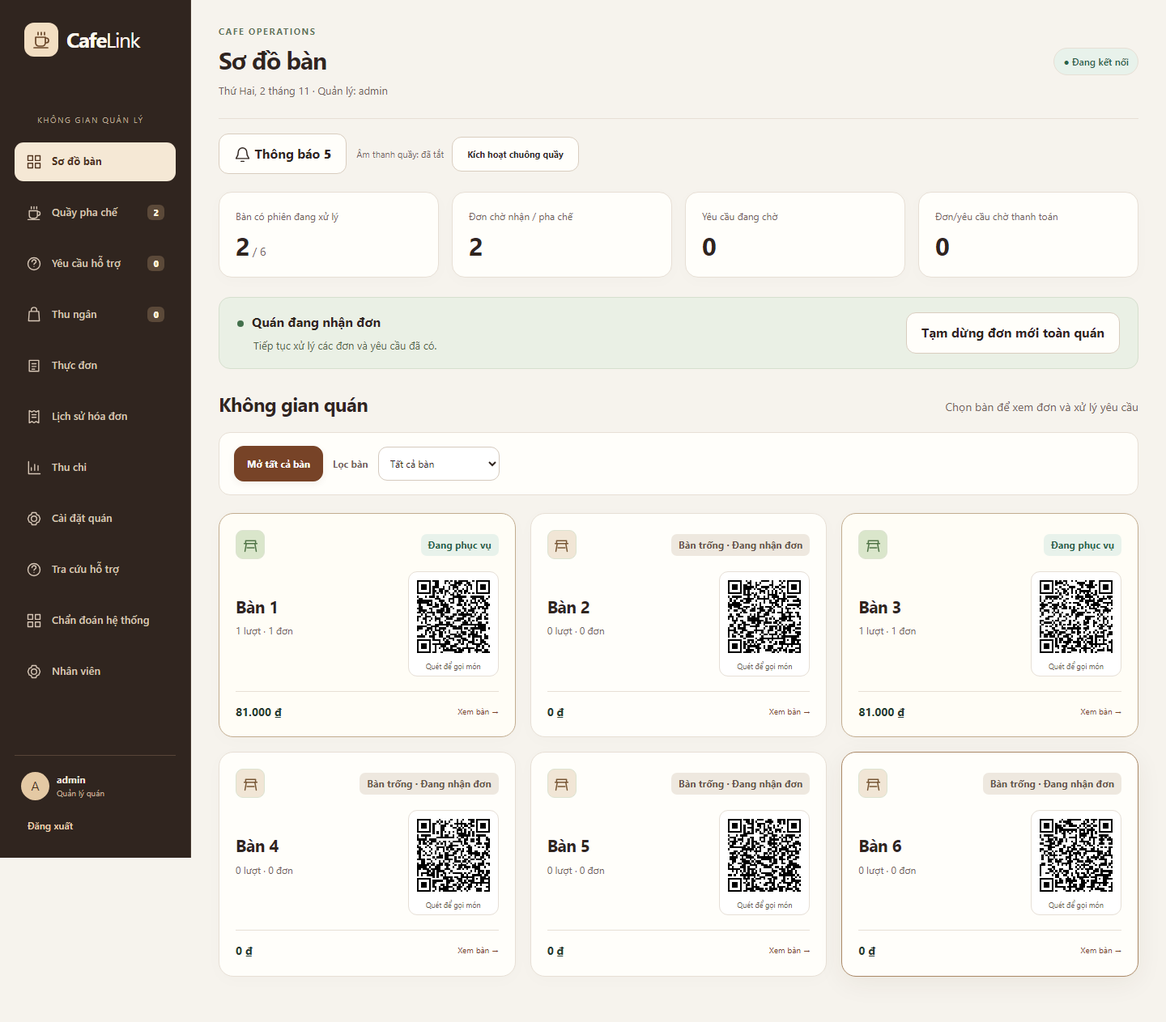
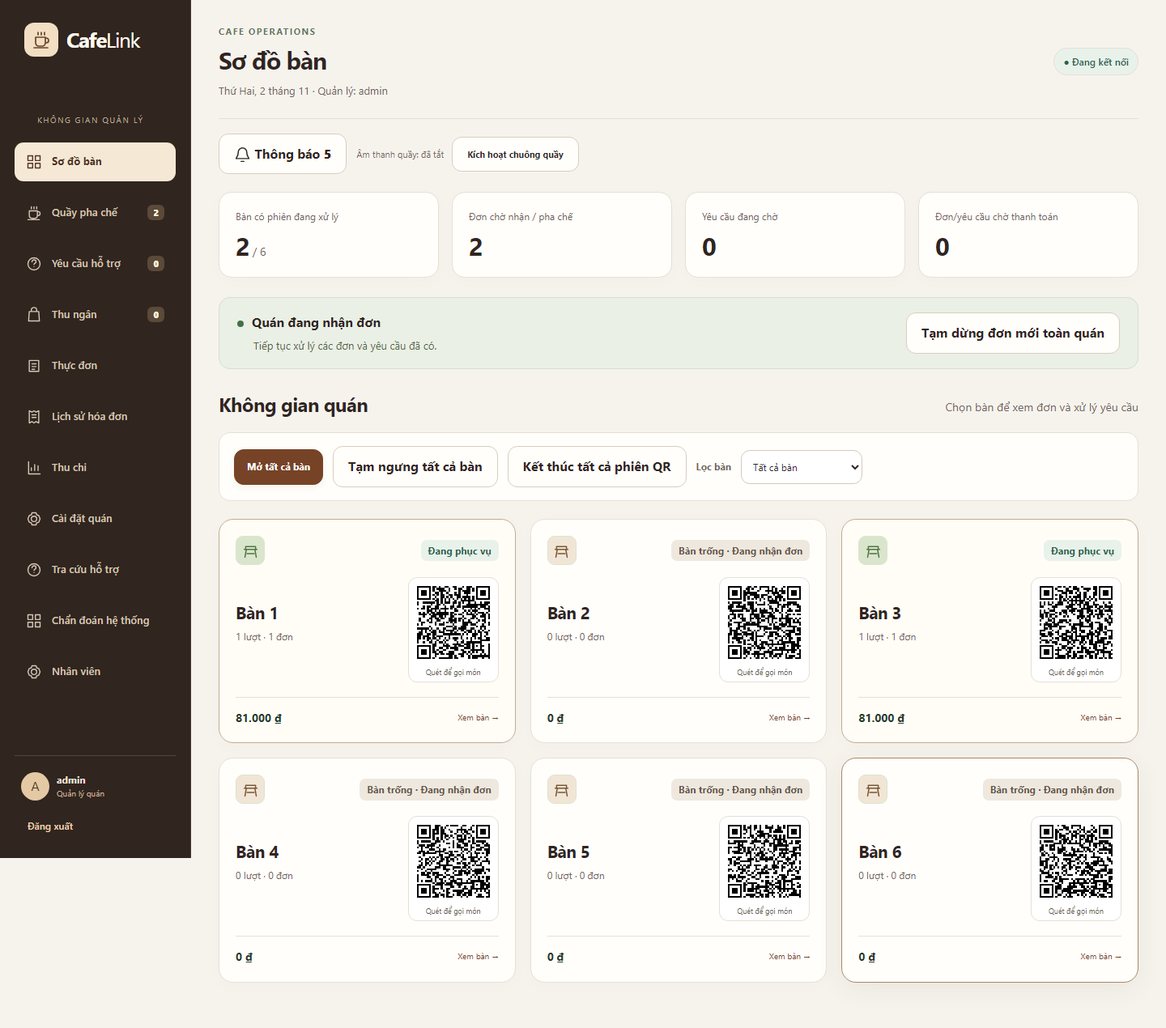
feat(tables): add safe bulk pause and session closure

diff --git a/cafelink-system/web/tests/automatic.spec.ts b/cafelink-system/web/tests/automatic.spec.ts
@@ -175,6 +175,77 @@ test("Quản lý kết thúc phiên bỏ quên và bàn trở về trống đang
   await expect(admin.locator(".table-inline-qr svg")).toHaveCount(6);
 });
 
+test("tạm ngưng tất cả bàn chặn khách mới nhưng khách hiện tại vẫn gọi món", async () => {
+  await admin.setViewportSize({ width: 390, height: 844 });
+  expect(await admin.evaluate(() => document.documentElement.scrollWidth <= innerWidth)).toBe(true);
+  await admin.getByRole("button", { name: "Tạm ngưng tất cả bàn", exact: true }).click();
+  const dialog = admin.getByRole("alertdialog", { name: "Tạm ngưng tất cả bàn" });
+  await expect(dialog.getByRole("button", { name: "Xác nhận tạm ngưng", exact: true })).toBeVisible();
+  expect(await admin.evaluate(() => document.documentElement.scrollWidth <= innerWidth)).toBe(true);
+  await dialog.getByRole("button", { name: "Xác nhận tạm ngưng", exact: true }).click();
+  await expect(dialog).not.toBeVisible();
+  await expect.poll(async () => (await state()).tables.every((table: any) => !table.acceptingOrders)).toBe(true);
+  const denied = await other.request.post("/api/guest/join", { headers: { Origin: origin }, data: { grant: qr.grant, table: true } });
+  expect(denied.status()).toBe(409);
+  expect((await denied.json()).code).toBe("TABLE_PAUSED");
+  const visitId = (await (await guest.request.get("/api/session")).json()).identity.visitId;
+  const order = await command(guest, "PLACE_ORDER", { visitId, items: [{ menuId: 2, quantity: 1, expectedVersion: 1, expectedPriceVnd: 30000 }] });
+  expect(order.orderId).toBeTruthy();
+  await command(guest, "CANCEL_UNPAID_ORDER", { visitId, orderId: order.orderId });
+});
+
+test("kết thúc tất cả phiên báo bàn còn đơn và chỉ đóng khi mọi bàn đã xử lý", async () => {
+  const secondQr = await command(owner, "GET_TABLE_QR", { tableId: 2 });
+  const joined = await other.request.post("/api/guest/join", { headers: { Origin: origin }, data: { grant: secondQr.grant, table: true } });
+  expect(joined.ok()).toBe(true);
+  const visitId = (await (await guest.request.get("/api/session")).json()).identity.visitId;
+  const order = await command(guest, "PLACE_ORDER", { visitId, items: [{ menuId: 2, quantity: 1, expectedVersion: 1, expectedPriceVnd: 30000 }] });
+  await admin.getByRole("button", { name: "Kết thúc tất cả phiên QR", exact: true }).click();
+  let dialog = admin.getByRole("alertdialog", { name: "Kết thúc tất cả phiên QR" });
+  await expect(dialog.getByRole("alert")).toContainText("Bàn 1");
+  await expect(dialog.getByRole("button", { name: "Xác nhận kết thúc tất cả phiên" })).toBeDisabled();
+  await dialog.getByRole("button", { name: "Hủy", exact: true }).click();
+  await command(guest, "CANCEL_UNPAID_ORDER", { visitId, orderId: order.orderId });
+  await admin.getByRole("button", { name: "Kết thúc tất cả phiên QR", exact: true }).click();
+  dialog = admin.getByRole("alertdialog", { name: "Kết thúc tất cả phiên QR" });
+  await expect(dialog.getByText(/Cần xử lý đơn/)).toHaveCount(0);
+  await expect(dialog).toContainText("2 phiên khách tại 2 bàn");
+  await dialog.getByRole("button", { name: "Hủy", exact: true }).click();
+  await admin.getByRole("button", { name: "Kết thúc tất cả phiên QR", exact: true }).click();
+  dialog = admin.getByRole("alertdialog", { name: "Kết thúc tất cả phiên QR" });
+  await dialog.getByRole("button", { name: "Xác nhận kết thúc tất cả phiên", exact: true }).click();
+  await expect(dialog).not.toBeVisible();
+  await expect.poll(async () => (await state()).tables.reduce((n: number, table: any) => n + table.activeSessions, 0)).toBe(0);
+  expect((await guest.request.get("/api/session")).status()).toBe(401);
+  expect((await other.request.get("/api/session")).status()).toBe(401);
+  await expect(admin.locator(".table-inline-qr svg")).toHaveCount(6);
+});
+
+test("mất phản hồi kết thúc tất cả phiên được đối chiếu, không đóng khách đến sau", async () => {
+  let intercepted = false;
+  await admin.route("**/api/command", async route => {
+    if (route.request().postDataJSON()?.action !== "END_ALL_TABLE_SESSIONS" || intercepted) return route.continue();
+    intercepted = true;
+    const response = await route.fetch();
+    expect(response.ok()).toBe(true);
+    await route.abort("failed");
+  });
+  await admin.getByRole("button", { name: "Kết thúc tất cả phiên QR", exact: true }).click();
+  const dialog = admin.getByRole("alertdialog", { name: "Kết thúc tất cả phiên QR" });
+  await dialog.getByRole("button", { name: "Xác nhận kết thúc tất cả phiên", exact: true }).click();
+  await expect.poll(() => intercepted).toBe(true);
+  const next = await join(other);
+  await admin.unrouteAll();
+  await admin.reload();
+  await expect.poll(async () => admin.evaluate(async () => {
+    const db = await new Promise<IDBDatabase>((resolve, reject) => { const r = indexedDB.open("cafelink-staff-journal", 1); r.onsuccess = () => resolve(r.result); r.onerror = () => reject(r.error); });
+    try { return await new Promise<string | undefined>((resolve, reject) => { const r = db.transaction("commands").objectStore("commands").getAll(); r.onsuccess = () => resolve(r.result.filter((entry: any) => entry.action === "END_ALL_TABLE_SESSIONS").at(-1)?.status); r.onerror = () => reject(r.error); }); }
+    finally { db.close(); }
+  })).toBe("ACCEPTED");
+  expect((await (await other.request.get("/api/session")).json()).identity.visitId).toBe(next.identity.visitId);
+  expect((await state()).tables[0].activeSessions).toBe(1);
+});
+
 test("QR cố định, mở toàn quán và hai khách cùng bàn có đơn riêng", async () => {
   const before = await (await guest.request.get("/api/session")).json(),
     second = await join(other);

diff --git a/cafelink-system/web/src/App.tsx b/cafelink-system/web/src/App.tsx
@@ -54,6 +54,8 @@ export function App() {
   const [selected, setSelected] = useState<Table | null>(null);
   const [bill, setBill] = useState<Bill | null>(null);
   const [confirmPay, setConfirmPay] = useState(false);
+  const [confirmAll, setConfirmAll] = useState<"pause" | "end" | null>(null);
+  const [confirmRevision, setConfirmRevision] = useState<number | null>(null);
   const [query, setQuery] = useState("");
   const [requestQuery, setRequestQuery] = useState(""),
     [showHandled, setShowHandled] = useState(false),
@@ -406,6 +408,12 @@ export function App() {
     tickets = state?.tickets ?? [],
     tables = state?.tables ?? [];
   const openTickets = tickets.filter((ticket) => ticket.status === "OPEN");
+  const qrTablesWithSessions = tables.filter(table => table.automatic && (table.activeSessions ?? 0) > 0);
+  const activeQrSessions = qrTablesWithSessions.reduce((count, table) => count + (table.activeSessions ?? 0), 0);
+  const blockedQrTables = qrTablesWithSessions.filter(table =>
+    orders.some(order => order.tableId === table.id && !["CANCELLED", "REFUNDED"].includes(order.paymentState ?? "") && (order.paymentState !== "PAID" || order.status !== "SERVED")) ||
+    openTickets.some(ticket => ticket.tableId === table.id),
+  );
   const currentTable = tables.find((table) => table.id === selected?.id);
   const tableOrders = orders.filter((order) => order.tableId === selected?.id);
   const tableTickets = openTickets.filter(
@@ -653,6 +661,8 @@ export function App() {
               >
                 Mở tất cả bàn
               </button>}
+              {isManager && <button className="secondary" disabled={disabled || !tables.some(table => table.automatic && table.acceptingOrders)} onClick={() => { setError(""); setConfirmRevision(state?.revision ?? null); setConfirmAll("pause"); }}>Tạm ngưng tất cả bàn</button>}
+              {isManager && <button className="secondary" disabled={disabled || activeQrSessions === 0} onClick={() => { setError(""); setConfirmRevision(state?.revision ?? null); setConfirmAll("end"); }}>Kết thúc tất cả phiên QR</button>}
               <label htmlFor="table-filter">Lọc bàn</label>
               <select
                 id="table-filter"
@@ -666,6 +676,26 @@ export function App() {
                 <option value="checkout">Đang tính tiền</option>
               </select>
             </div>
+            {isManager && confirmAll && <Dialog label={confirmAll === "pause" ? "Tạm ngưng tất cả bàn" : "Kết thúc tất cả phiên QR"} role="alertdialog" onClose={() => { if (!busy) setConfirmAll(null); }}>
+              {confirmAll === "pause" ? <>
+                <h2>Tạm ngưng nhận khách mới?</h2>
+                <p>Khách mới sẽ không thể vào bằng QR ở tất cả bàn. Các phiên và yêu cầu hiện có vẫn được giữ để tiếp tục phục vụ.</p>
+              </> : <>
+                <h2>Kết thúc tất cả phiên QR?</h2>
+                <p>Thao tác sẽ đăng xuất {activeQrSessions} phiên khách tại {qrTablesWithSessions.length} bàn. QR nhận khách giữ nguyên trạng thái.</p>
+                {blockedQrTables.length > 0 ? <p className="warning banner" role="alert">Cần xử lý đơn chưa thanh toán/chưa giao hoặc yêu cầu hỗ trợ tại: {blockedQrTables.map(table => table.name).join(", ")}.</p> : <p>Chỉ tiếp tục khi khách đã rời quán. Các đơn và yêu cầu sẽ được kiểm tra lại trước khi kết thúc.</p>}
+              </>}
+              {(confirmRevision === null || confirmRevision !== state?.revision) && <p className="warning banner" role="alert">Trạng thái quán đã thay đổi. Hãy hủy và mở lại để kiểm tra trước khi xác nhận.</p>}
+              {error && <p className="error" role="alert">{error}</p>}
+              <div className="button-row">
+                <button type="button" className="secondary" disabled={busy} onClick={() => setConfirmAll(null)}>Hủy</button>
+                <button type="button" disabled={disabled || confirmRevision === null || confirmRevision !== state?.revision || (confirmAll === "end" && (blockedQrTables.length > 0 || activeQrSessions === 0))} onClick={async () => {
+                  const action = confirmAll === "pause" ? "PAUSE_ALL_TABLES" : "END_ALL_TABLE_SESSIONS";
+                  const result = await run<{pausedTables?: number; endedSessions?: number}>(action, { expectedRevision: confirmRevision });
+                  if (result) { setConfirmAll(null); setNotice(action === "PAUSE_ALL_TABLES" ? `Đã tạm ngưng nhận khách mới ở ${result.pausedTables} bàn.` : `Đã kết thúc ${result.endedSessions} phiên QR.`); }
+                }}>{confirmAll === "pause" ? "Xác nhận tạm ngưng" : "Xác nhận kết thúc tất cả phiên"}</button>
+              </div>
+            </Dialog>}
             <section className="table-grid">
               {tables
                 .filter(

diff --git a/cafelink-system/web/src/staffJournal.ts b/cafelink-system/web/src/staffJournal.ts
@@ -3,6 +3,7 @@ import type { SessionInfo } from "./models";
 import { fingerprint, JournalError } from "./journal";
 
 export const financialActions = new Set([
+  "PAUSE_ALL_TABLES", "END_ALL_TABLE_SESSIONS",
   "SET_MENU_AVAILABILITY", "ACCEPT_ORDER", "SAVE_TAX_SETTINGS", "CREATE_EXPENSE", "VOID_EXPENSE",
   "REQUEST_CHECKOUT",
   "ACK_CHECKOUT",
@@ -124,9 +125,11 @@ const definite = new Set([
   "FORBIDDEN",
   "NOT_FOUND",
   "COMMAND_DISCARDED",
-  "ITEM_UNAVAILABLE", "TAX_CHANGED",
+  "ITEM_UNAVAILABLE", "TAX_CHANGED", "TABLE_HAS_WORK",
 ]);
 function validResult(row: StaffIntent, result: Record<string, unknown>) {
+  if(row.action==='PAUSE_ALL_TABLES')return Number.isSafeInteger(result.pausedTables) && Number(result.pausedTables)>=0;
+  if(row.action==='END_ALL_TABLE_SESSIONS')return Number.isSafeInteger(result.endedSessions) && Number(result.endedSessions)>=0 && Number.isSafeInteger(result.affectedTables) && Number(result.affectedTables)>=0;
   if(row.action==='SET_MENU_AVAILABILITY')return result.menuId===row.data.menuId&&result.version===Number(row.data.expectedVersion)+1;
   if(row.action==='ACCEPT_ORDER')return result.orderId===row.data.orderId&&result.acceptanceState==='ACCEPTED';
   if(row.action==='SAVE_TAX_SETTINGS')return result.version===Number(row.data.expectedVersion)+1&&result.rateBps===row.data.rateBps&&result.mode===row.data.mode;

diff --git a/cafelink-system/web/src/ui.tsx b/cafelink-system/web/src/ui.tsx
@@ -7,6 +7,8 @@ export const searchText = (text: string) =>
     .replace(/Đ/g, "D")
     .toLocaleLowerCase("vi");
 export const actionTitle: Record<string, string> = {
+  PAUSE_ALL_TABLES: "Tạm ngưng tất cả bàn",
+  END_ALL_TABLE_SESSIONS: "Kết thúc tất cả phiên QR",
   SET_MENU_AVAILABILITY: "Đổi tình trạng món",
   ACCEPT_ORDER: "Tiếp nhận đơn", SAVE_TAX_SETTINGS: "Lưu cấu hình thuế", CREATE_EXPENSE: "Ghi khoản chi", VOID_EXPENSE: "Hủy phiếu chi",
   RESOLVE_ORDER: "Hủy / hoàn giả lập đơn",

diff --git a/cafelink-system/web/src/StaffRecovery.tsx b/cafelink-system/web/src/StaffRecovery.tsx
@@ -81,7 +81,7 @@ export function StaffRecovery({ session }: { session: SessionInfo }) {
                   Mã {row.id.slice(0, 8)} · {row.action} ·{" "}
                   {row.data.visitId
                     ? `lượt ${String(row.data.visitId).slice(0, 8)}`
-                    : "thực đơn"}
+                    : ["PAUSE_ALL_TABLES", "END_ALL_TABLE_SESSIONS"].includes(row.action) ? "toàn quán" : "thực đơn"}
                 </small>
               </details>
               {row.status === "CONFIRM_REQUIRED" && (

diff --git a/cafelink-system/src/test/java/com/cafelink/server/AutomaticTablesTest.java b/cafelink-system/src/test/java/com/cafelink/server/AutomaticTablesTest.java
@@ -93,6 +93,46 @@ class AutomaticTablesTest {
             assertEquals(next.membershipId(),service.resume(next.credential()).membershipId());
         }
     }
+    @Test void pauseAllPreservesCurrentGuestsAndSameCommandCannotPauseReopenedTables() throws Exception {
+        try(var service=new CafeService(temp.resolve("pause-all.db"),new QrConfig(new byte[32],Clock.systemUTC()),true)) {
+            var admin=service.authenticate("admin","CafeLink@123");service.execute(admin,"OPEN_ALL_TABLES",j("{}"));
+            var grant=service.execute(admin,"GET_TABLE_QR",j("{\"tableId\":1}")).get("grant").getAsString();
+            var guest=service.joinTable(grant);var revision=service.snapshot(admin,Map.of()).revision();
+            var input=j("{\"expectedRevision\":"+revision+"}");
+            var paused=service.execute(admin,"pause-all-once","PAUSE_ALL_TABLES",input);
+            assertEquals(6,paused.get("pausedTables").getAsInt());
+            assertEquals("TABLE_PAUSED",assertThrows(BusinessException.class,()->service.joinTable(grant)).code());
+            assertNotNull(service.execute(guest,"PLACE_ORDER",j("{\"visitId\":\""+guest.visitId()+"\",\"items\":[{\"menuId\":2,\"quantity\":1,\"expectedVersion\":1,\"expectedPriceVnd\":30000}]}")));
+            service.execute(admin,"OPEN_ALL_TABLES",j("{}"));
+            assertEquals(paused,service.execute(admin,"pause-all-once","PAUSE_ALL_TABLES",input));
+            assertTrue(service.snapshot(admin,Map.of()).tables().get(0).acceptingOrders());
+            assertEquals("VERSION_CONFLICT",assertThrows(BusinessException.class,()->service.execute(admin,"pause-all-late","PAUSE_ALL_TABLES",input)).code());
+        }
+    }
+    @Test void endAllIsAtomicReportsBlockedTablesAndFencesOldCommands() throws Exception {
+        try(var service=new CafeService(temp.resolve("end-all.db"),new QrConfig(new byte[32],Clock.systemUTC()),true)) {
+            var admin=service.authenticate("admin","CafeLink@123");service.execute(admin,"OPEN_ALL_TABLES",j("{}"));
+            var grant1=service.execute(admin,"GET_TABLE_QR",j("{\"tableId\":1}")).get("grant").getAsString();
+            var grant2=service.execute(admin,"GET_TABLE_QR",j("{\"tableId\":2}")).get("grant").getAsString();
+            var first=service.joinTable(grant1);var second=service.joinTable(grant2);
+            var order=service.execute(second,"PLACE_ORDER",j("{\"visitId\":\""+second.visitId()+"\",\"items\":[{\"menuId\":2,\"quantity\":1,\"expectedVersion\":1,\"expectedPriceVnd\":30000}]}"));
+            var blockedInput=j("{\"expectedRevision\":"+service.snapshot(admin,Map.of()).revision()+"}");
+            var blocked=assertThrows(BusinessException.class,()->service.execute(admin,"END_ALL_TABLE_SESSIONS",blockedInput));
+            assertEquals("TABLE_HAS_WORK",blocked.code());assertTrue(blocked.getMessage().contains("Bàn 2"));
+            assertEquals(first.membershipId(),service.resume(first.credential()).membershipId());
+            assertEquals(second.membershipId(),service.resume(second.credential()).membershipId());
+            service.execute(second,"CANCEL_UNPAID_ORDER",j("{\"visitId\":\""+second.visitId()+"\",\"orderId\":"+order.get("orderId")+"}"));
+            var confirmed=j("{\"expectedRevision\":"+service.snapshot(admin,Map.of()).revision()+"}");
+            var ended=service.execute(admin,"end-all-once","END_ALL_TABLE_SESSIONS",confirmed);
+            assertEquals(2,ended.get("endedSessions").getAsInt());assertEquals(2,ended.get("affectedTables").getAsInt());
+            assertEquals("SESSION_REVOKED",assertThrows(BusinessException.class,()->service.resume(first.credential())).code());
+            assertEquals("SESSION_REVOKED",assertThrows(BusinessException.class,()->service.resume(second.credential())).code());
+            var next=service.joinTable(grant1);
+            assertEquals(ended,service.execute(admin,"end-all-once","END_ALL_TABLE_SESSIONS",confirmed));
+            assertEquals("VERSION_CONFLICT",assertThrows(BusinessException.class,()->service.execute(admin,"end-all-late","END_ALL_TABLE_SESSIONS",confirmed)).code());
+            assertEquals(next.membershipId(),service.resume(next.credential()).membershipId());
+        }
+    }
     @Test void staffLoginKeepsQrEnabledAndOnlyAdminCanEndOtherSessions() throws Exception {
         try(var service=new CafeService(temp.resolve("end-permissions.db"),new QrConfig(new byte[32],Clock.systemUTC()),true)) {
             var admin=service.authenticate("admin","CafeLink@123");service.execute(admin,"OPEN_ALL_TABLES",j("{}"));
@@ -103,6 +143,10 @@ class AutomaticTablesTest {
             assertTrue(service.snapshot(admin,Map.of()).tables().get(0).acceptingOrders());
             assertEquals("FORBIDDEN",assertThrows(BusinessException.class,()->service.execute(staff,"END_TABLE_SESSIONS",j("{\"tableId\":1}"))).code());
             assertEquals("FORBIDDEN",assertThrows(BusinessException.class,()->service.execute(guest,"END_TABLE_SESSIONS",j("{\"tableId\":1}"))).code());
+            for(String action:List.of("PAUSE_ALL_TABLES","END_ALL_TABLE_SESSIONS")) {
+                assertEquals("FORBIDDEN",assertThrows(BusinessException.class,()->service.execute(staff,action,j("{}"))).code());
+                assertEquals("FORBIDDEN",assertThrows(BusinessException.class,()->service.execute(guest,action,j("{}"))).code());
+            }
             assertEquals(1,service.snapshot(admin,Map.of()).tables().get(0).activeSessions());
             assertNotNull(service.joinTable(grant));
         }

diff --git a/cafelink-system/src/main/java/com/cafelink/server/CafeService.java b/cafelink-system/src/main/java/com/cafelink/server/CafeService.java
@@ -12,7 +12,7 @@ import java.util.*;
 
 /** Database and business state are serialized here; socket I/O never holds this lock. */
 public final class CafeService implements AutoCloseable {
-    private static final Set<String> STAFF_DISCARD_ACTIONS=Set.of("SET_MENU_AVAILABILITY","ACCEPT_ORDER","SAVE_TAX_SETTINGS","CREATE_EXPENSE","VOID_EXPENSE","REQUEST_CHECKOUT","ACK_CHECKOUT","REOPEN_ORDERING","PAY_AND_CLOSE","CLOSE_VISIT","CREATE_MENU_ITEM","UPDATE_MENU_ITEM","RESOLVE_ORDER");
+    private static final Set<String> STAFF_DISCARD_ACTIONS=Set.of("SET_MENU_AVAILABILITY","ACCEPT_ORDER","SAVE_TAX_SETTINGS","CREATE_EXPENSE","VOID_EXPENSE","REQUEST_CHECKOUT","ACK_CHECKOUT","REOPEN_ORDERING","PAY_AND_CLOSE","CLOSE_VISIT","CREATE_MENU_ITEM","UPDATE_MENU_ITEM","RESOLVE_ORDER","PAUSE_ALL_TABLES","END_ALL_TABLE_SESSIONS");
     private final Database db;
     private final QrAccess qr;
     private final CheckoutFlow checkout;
@@ -199,6 +199,8 @@ public final class CafeService implements AutoCloseable {
             }
             JsonObject result = switch (action) {
                 case "OPEN_ALL_TABLES" -> {qrRequired();requireAdmin(who);yield tableOrdering.enableAll();}
+                case "PAUSE_ALL_TABLES" -> {qrRequired();requireAdmin(who);checkTableActionRevision(input);JsonObject paused=new JsonObject();paused.addProperty("pausedTables",tableOrdering.pauseAll());yield paused;}
+                case "END_ALL_TABLE_SESSIONS" -> {qrRequired();requireAdmin(who);checkTableActionRevision(input);yield tableOrdering.endAllSessions();}
                 case "SET_TABLE_ACCEPTING" -> {qrRequired();requireAdmin(who);int table=integer(input,"tableId"),enabled=integer(input,"enabled");if(enabled!=0&&enabled!=1)throw problem("INVALID_INPUT","enabled phải bằng 0 hoặc 1.");if(db.update("UPDATE table_access SET enabled=? WHERE table_id=?",enabled,table)!=1)throw problem("NOT_FOUND","Hãy bật QR cố định cho toàn quán trước.");yield fields("status",enabled==1?"ACCEPTING":"PAUSED");}
                 case "END_TABLE_SESSIONS" -> {qrRequired();requireAdmin(who);yield tableOrdering.endTableSessions(integer(input,"tableId"));}
                 case "GET_TABLE_QR" -> {qrRequired();requireOperator(who);yield tableOrdering.qr(integer(input,"tableId"));}
@@ -402,6 +404,16 @@ public final class CafeService implements AutoCloseable {
         db.update("UPDATE visits SET active=0,closed_at=? WHERE id=?", Instant.now().toString(), visit);
         if(checkout!=null)db.update("UPDATE visits SET state='CLOSED',version=version+1 WHERE id=?",visit);
         return fields("visitId", visit);
+    }
+    private void checkTableActionRevision(JsonObject input) throws SQLException {
+        JsonElement value = input.get("expectedRevision");
+        if (value == null || !value.isJsonPrimitive() || !value.getAsJsonPrimitive().isNumber()) throw problem("INVALID_INPUT", "Thiếu phiên bản trạng thái quán.");
+        long expected;
+        try { expected = Long.parseLong(value.getAsString()); }
+        catch (NumberFormatException e) { throw problem("INVALID_INPUT", "Phiên bản trạng thái quán không hợp lệ."); }
+        if (expected < 0) throw problem("INVALID_INPUT", "Phiên bản trạng thái quán không hợp lệ.");
+        if (db.query("SELECT value FROM metadata WHERE name='revision'", r -> r.getLong(1)).get(0) != expected)
+            throw problem("VERSION_CONFLICT", "Trạng thái quán đã thay đổi. Hãy xem lại và xác nhận thao tác mới.");
     }
     private int activeVisit(Identity who, String visit) throws SQLException {
         List<Integer> tables = db.query("SELECT table_id FROM visits WHERE id=? AND active=1", r -> r.getInt(1), visit);

diff --git a/cafelink-system/src/main/java/com/cafelink/server/TableOrdering.java b/cafelink-system/src/main/java/com/cafelink/server/TableOrdering.java
@@ -22,9 +22,11 @@ final class TableOrdering {
         for(int table:db.query("SELECT id FROM cafe_tables",r->r.getInt(1))) { ensure(table); db.update("UPDATE table_access SET enabled=1 WHERE table_id=?",table); }
         JsonObject result=new JsonObject();result.addProperty("enabledTables",db.query("SELECT count(*) FROM table_access WHERE enabled=1",r->r.getInt(1)).get(0));return result;
     }
-    void pauseAll() throws SQLException {
-        if (db.update("UPDATE table_access SET enabled=0 WHERE enabled=1") > 0)
+    int pauseAll() throws SQLException {
+        int paused = db.update("UPDATE table_access SET enabled=0 WHERE enabled=1");
+        if (paused > 0)
             db.update("UPDATE metadata SET value=value+1 WHERE name='revision'");
+        return paused;
     }
     private void ensure(int table) throws SQLException {
         if(db.query("SELECT id FROM cafe_tables WHERE id=?",r->r.getInt(1),table).isEmpty())throw new BusinessException("NOT_FOUND","Không có bàn này.");
@@ -92,5 +94,20 @@ final class TableOrdering {
             events.append(visit,"ADMIN_END_VISIT",visit,"Quản lý đã kết thúc phiên tại bàn");
         }
         JsonObject result=new JsonObject();result.addProperty("tableId",table);result.addProperty("endedSessions",visits.size());return result;
+    }
+    JsonObject endAllSessions() throws SQLException {
+        var tables = db.query("SELECT DISTINCT table_id FROM visits WHERE service_mode='AUTO' AND active=1 ORDER BY table_id", r -> r.getInt(1));
+        List<String> blocked = new java.util.ArrayList<>();
+        for (int table : tables) {
+            var visits = db.query("SELECT id FROM visits WHERE table_id=? AND service_mode='AUTO' AND active=1", r -> r.getString(1), table);
+            for (String visit : visits) if (hasOpenWork(visit)) { blocked.add("Bàn " + table); break; }
+        }
+        if (!blocked.isEmpty()) throw new BusinessException("TABLE_HAS_WORK", "Còn đơn hoặc yêu cầu hỗ trợ chưa xử lý tại " + String.join(", ", blocked) + ". Hãy xử lý trước khi kết thúc phiên.");
+        int ended = 0;
+        for (int table : tables) ended += endTableSessions(table).get("endedSessions").getAsInt();
+        JsonObject result = new JsonObject();
+        result.addProperty("endedSessions", ended);
+        result.addProperty("affectedTables", tables.size());
+        return result;
     }
 }

diff --git a/cafelink-system/src/main/java/com/cafelink/web/WebGateway.java b/cafelink-system/src/main/java/com/cafelink/web/WebGateway.java
@@ -27,7 +27,7 @@ import java.util.function.Consumer;
 public final class WebGateway implements AutoCloseable {
     public record Tls(Path keyStore, String password) { }
     private static final int BODY_LIMIT = 64 * 1024;
-    private static final Set<String> ACTIONS = Set.of("GET_STAFF_ACCOUNTS", "CREATE_STAFF_ACCOUNT", "SET_STAFF_ACTIVE", "RESET_STAFF_PASSWORD", "GET_STAFF_AUDIT", "SET_MENU_AVAILABILITY", "ACCEPT_ORDER", "GET_TAX_SETTINGS", "SAVE_TAX_SETTINGS", "GET_FINANCE_REPORT", "CREATE_EXPENSE", "VOID_EXPENSE", "AMEND_SERVICE", "CANCEL_SERVICE", "SET_STORE_ACCEPTING", "FIND_ASSISTANCE", "OPEN_ALL_TABLES", "GET_TABLE_QR", "GET_OWN_TABLE_QR", "GET_CONTINUATION_CONTEXT", "RESOLVE_ORDER", "SET_TABLE_ACCEPTING", "OPEN_TABLE", "CLOSE_EMPTY_TABLE", "PLACE_ORDER",
+    private static final Set<String> ACTIONS = Set.of("GET_STAFF_ACCOUNTS", "CREATE_STAFF_ACCOUNT", "SET_STAFF_ACTIVE", "RESET_STAFF_PASSWORD", "GET_STAFF_AUDIT", "SET_MENU_AVAILABILITY", "ACCEPT_ORDER", "GET_TAX_SETTINGS", "SAVE_TAX_SETTINGS", "GET_FINANCE_REPORT", "CREATE_EXPENSE", "VOID_EXPENSE", "AMEND_SERVICE", "CANCEL_SERVICE", "SET_STORE_ACCEPTING", "FIND_ASSISTANCE", "OPEN_ALL_TABLES", "PAUSE_ALL_TABLES", "END_ALL_TABLE_SESSIONS", "GET_TABLE_QR", "GET_OWN_TABLE_QR", "GET_CONTINUATION_CONTEXT", "RESOLVE_ORDER", "SET_TABLE_ACCEPTING", "OPEN_TABLE", "CLOSE_EMPTY_TABLE", "PLACE_ORDER",
             "SET_ORDER_STATUS", "CALL_SERVICE", "REQUEST_BILL", "HANDLE_TICKET", "GET_BILL", "PAY_AND_CLOSE",
             "GET_OUTCOME", "DISCARD_COMMAND", "GET_VISIT_QR", "ROTATE_JOIN_GRANT", "GET_VISIT_MEMBERSHIPS", "REVOKE_SESSION", "REQUEST_CHECKOUT", "ACK_CHECKOUT", "REOPEN_ORDERING", "GET_CHECKOUT", "GET_NOTIFICATIONS", "MARK_NOTIFICATION_READ", "CREATE_MENU_ITEM", "UPDATE_MENU_ITEM", "GET_MENU_CATEGORIES", "SAVE_MENU_CATEGORY", "DELETE_MENU_CATEGORY", "START_ORDER_PAYMENT", "SIMULATE_PAYMENT", "CANCEL_UNPAID_ORDER", "CLOSE_VISIT", "END_TABLE_SESSIONS", "GET_SALES_HISTORY", "GET_SALES_RECEIPT");
     private final Server server = new Server();

diff --git a/cafelink-system/src/main/java/com/cafelink/common/Commands.java b/cafelink-system/src/main/java/com/cafelink/common/Commands.java
@@ -8,7 +8,7 @@ import java.util.*;
 /** Shared command classification and deterministic content fingerprints. */
 public final class Commands {
     private Commands() { }
-    private static final Set<String> MUTATIONS = Set.of("CREATE_STAFF_ACCOUNT", "SET_STAFF_ACTIVE", "RESET_STAFF_PASSWORD", "SET_MENU_AVAILABILITY", "ACCEPT_ORDER", "SAVE_TAX_SETTINGS", "CREATE_EXPENSE", "VOID_EXPENSE", "AMEND_SERVICE", "CANCEL_SERVICE", "SET_STORE_ACCEPTING", "OPEN_ALL_TABLES", "SET_TABLE_ACCEPTING", "OPEN_TABLE", "PLACE_ORDER", "SET_ORDER_STATUS",
+    private static final Set<String> MUTATIONS = Set.of("CREATE_STAFF_ACCOUNT", "SET_STAFF_ACTIVE", "RESET_STAFF_PASSWORD", "SET_MENU_AVAILABILITY", "ACCEPT_ORDER", "SAVE_TAX_SETTINGS", "CREATE_EXPENSE", "VOID_EXPENSE", "AMEND_SERVICE", "CANCEL_SERVICE", "SET_STORE_ACCEPTING", "OPEN_ALL_TABLES", "PAUSE_ALL_TABLES", "END_ALL_TABLE_SESSIONS", "SET_TABLE_ACCEPTING", "OPEN_TABLE", "PLACE_ORDER", "SET_ORDER_STATUS",
             "CALL_SERVICE", "REQUEST_BILL", "REQUEST_CHECKOUT", "ACK_CHECKOUT", "REOPEN_ORDERING", "HANDLE_TICKET", "PAY_AND_CLOSE", "CLOSE_EMPTY_TABLE", "ROTATE_JOIN_GRANT", "REVOKE_SESSION", "MARK_NOTIFICATION_READ", "CREATE_MENU_ITEM", "UPDATE_MENU_ITEM", "SAVE_MENU_CATEGORY", "DELETE_MENU_CATEGORY", "START_ORDER_PAYMENT", "SIMULATE_PAYMENT", "CANCEL_UNPAID_ORDER", "CLOSE_VISIT", "END_TABLE_SESSIONS", "RESOLVE_ORDER");
     public static boolean mutation(String action) { return MUTATIONS.contains(action); }
     public static boolean guestMutation(String action) { return Set.of("AMEND_SERVICE", "CANCEL_SERVICE", "PLACE_ORDER", "CALL_SERVICE", "REQUEST_BILL", "REQUEST_CHECKOUT").contains(action); }
